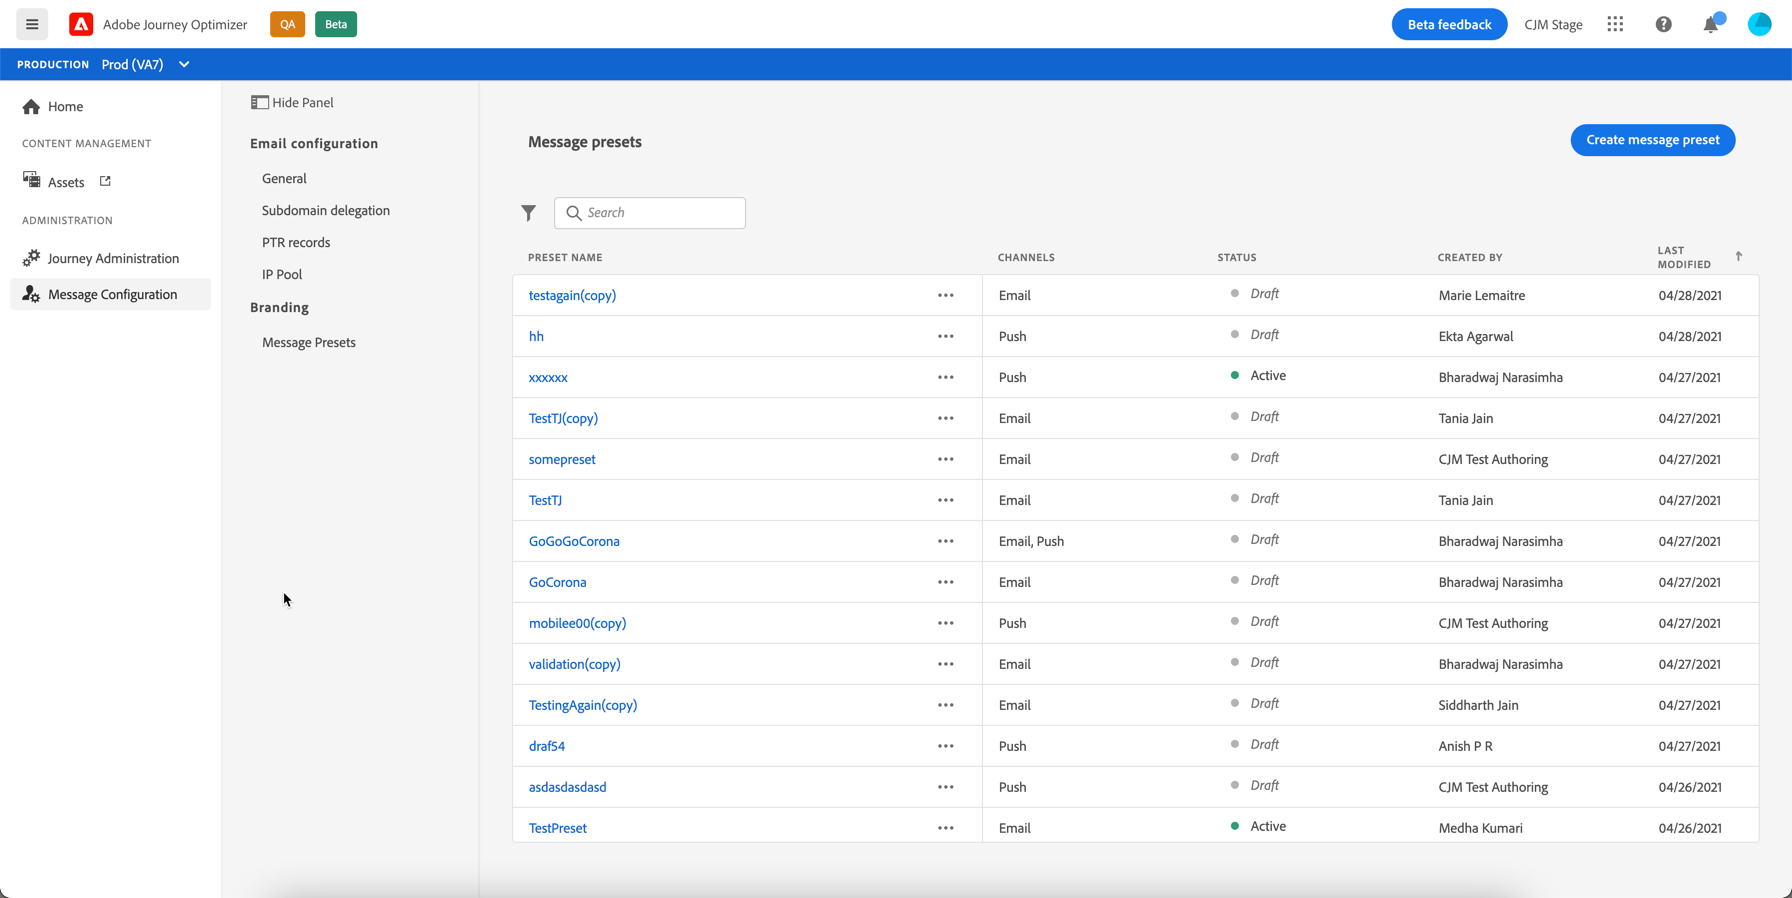
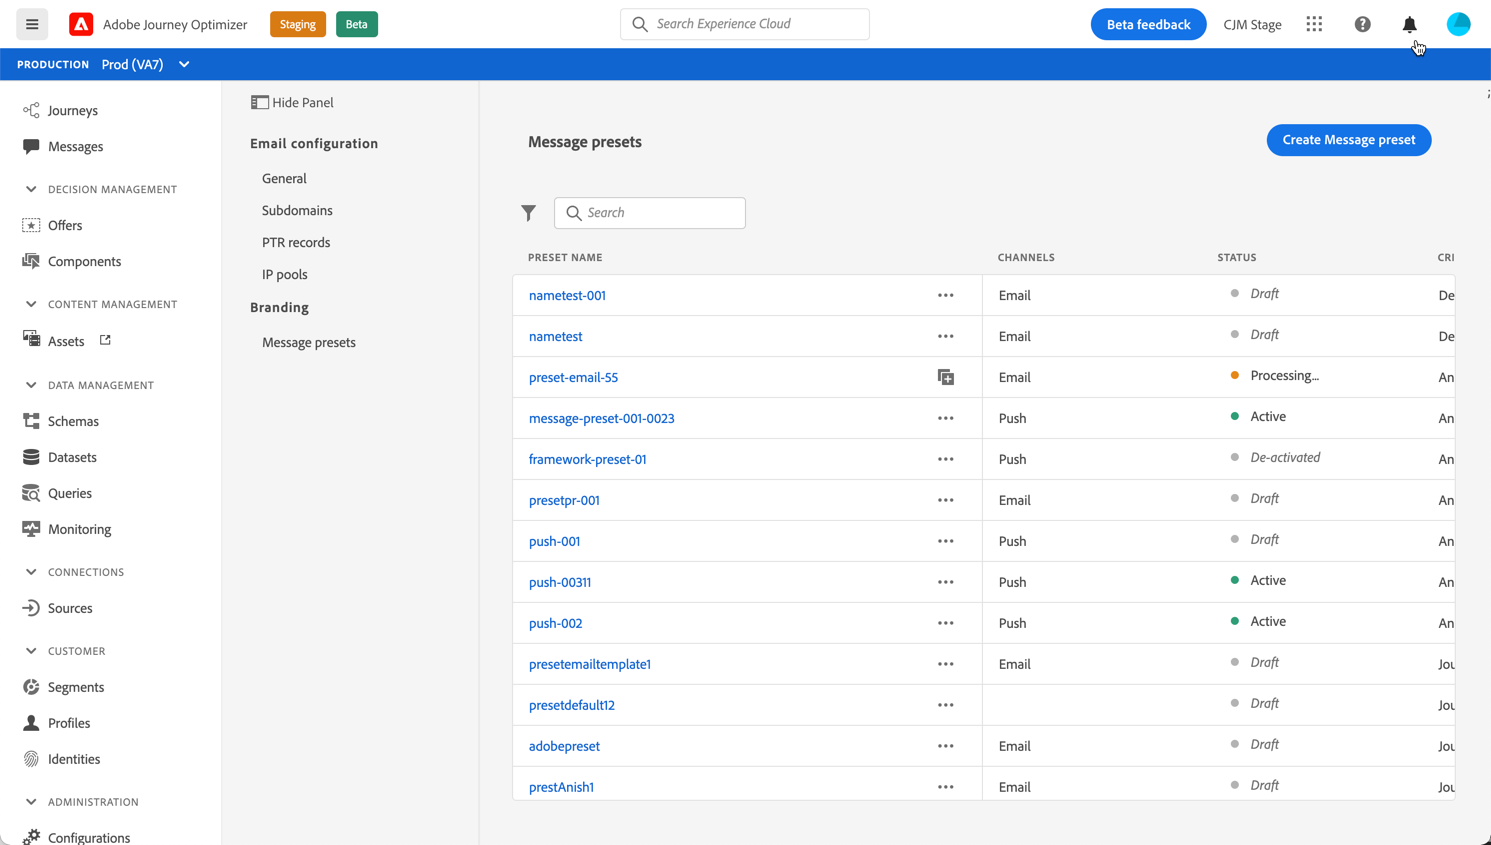
updates with stage instance

diff --git a/help/using/configuration/message-presets.md b/help/using/configuration/message-presets.md
@@ -25,7 +25,7 @@ Once message presets have been configured, you be able to select them when creat
 
 To create a message preset, follow these steps:
 
-1. Access the **[!UICONTROL Message Configuration]** / **[!UICONTROL Message presets]** menu, then click **[!UICONTROL Create message preset]**.
+1. Access the **[!UICONTROL Channels]** / **[!UICONTROL Message presets]** menu, then click **[!UICONTROL Create Message preset]**.
 
     ![](../assets/preset-create.png)
 
@@ -56,28 +56,23 @@ To create a message preset, follow these steps:
 
     During this step, several checks will be performed to verify that it has been configured properly. The processing time is around 48h-72h, and can take up to 7-10 days.
 
-    You can track the verification process by opening the message preset from the list.
+    These checks include deliverability tests that are performed by Adobe deliverability team:
 
-        -SCREENSHOT SHOWING THE TWO CHECKS-
+    * SPF validation,
+    * DKIM validation,
+    * MX record validation,
+    * Check IPs blacklisting,
+    * Helo host check,
+    * IP pool verification,
+    * A/PTR record, t/m/res subdomain verification.
 
-    !!no processing preset on stage + unable to submit a preset 
+1. Once the checks are successfull, you are informed via a **[!DNL Journey Optimizer]** notification, and the message preset gets the **[!UICONTROL Active]** status. It is now ready to be used to deliver messages.
 
-    * **xxxx**: 
-    * **Audit step**: deliverability tests are performed by Adobe deliverability team. This step can take up to 10 days if some steps fail during the audit. The checks include:
+    ![](../assets/preset-active.png)
 
-        * SPF validation,
-        * DKIM validation,
-        * MX record validation,
-        * Check IPs blacklisting,
-        * Helo host check,
-        * IP pool verification,
-        * A/PTR record, t/m/res subdomain verification.
+## Monitor message presets
 
-1. Once the checks are successfull, you will be notified (!!where?). and the message preset will get the **[!UICONTROL Active]** status. It now ready to be used to deliver messages.
-
-## Manage and edit message presets
-
-All your message presets display in the **[!UICONTROL Message Configuration]** / **[!UICONTROL Message presets]** menu. Filters are available to help you browse through the list (channel type, user, status).
+All your message presets display in the **[!UICONTROL Channels]** / **[!UICONTROL Message presets]** menu. Filters are available to help you browse through the list (channel type, user, status).
 
 ![](../assets/preset-filters.png)
 
@@ -89,9 +84,9 @@ Message presets can have the following statuses:
 * **[!UICONTROL Failed]**: One or several checks have failed during the message preset verification.
 * **[!UICONTROL De-activated]**: The message preset is de-activated. It cannot be used to create messages.
 
-To edit a message preset, you first need to de-activate it to make it unavailable to create new messages (published messages using this preset will not be affected and will continue working).
+## Edit message presets
 
-You then need to duplicate the message preset to create a new version to use to create new messages:
+To edit a message preset, you first need to de-activate it to make it unavailable to create new messages (published messages using this preset will not be affected and will continue working). You then need to duplicate the message preset to create a new version to use to create new messages:
 
 1. Access the message presets list, then deactivate the message preset that you want to edit.
 
@@ -104,7 +99,5 @@ You then need to duplicate the message preset to create a new version to use to 
 1. Open the duplicated message preset, modify it according to your needs, then submit your changes. The message preset will go through the same validation cycle as during the [creation step](#create-message-preset).
 
 1. Once validated, it gets the **[!UICONTROL Active]** status and is ready to be used to create new messages.
-
-    ![](../assets/preset-active.png)
 
 <!--que fait-on ensuite avec l'ancienne version deactivated: reste là pour être utilisée par les anciens messages?). quand un deactivate preset est-il enlevé de la liste?-->

diff --git a/help/using/configuration/delegate-subdomain.md b/help/using/configuration/delegate-subdomain.md
@@ -25,11 +25,13 @@ Journey Optimizer allows you to fully delegate your subdomains to Adobe. By doin
 
 To delegate a new subdomain, follow the steps below:
 
-1. Access the **[!UICONTROL Message Configuration]** / **[!UICONTROL Subdomain delegation]** menu, then click **[!UICONTROL Delegate subdomain]**.
+1. Access the **[!UICONTROL Channels]** / **[!UICONTROL Subdomains]** menu, then click **[!UICONTROL Delegate subdomain]**.
 
     ![](../assets/subdomain-delegate.png)
 
 1. Specify the name of the subdomain to delegate.
+
+    ![](../assets/subdomain-name.png)
 
 1. The list of records to be placed in your DNS servers displays. Copy these records, either one by one, or by downloading a CSV file, then navigate to your domain hosting solution to generate the matching DNS records.
 
@@ -43,8 +45,6 @@ To delegate a new subdomain, follow the steps below:
 
 1. Once the subdomain delegation has been submitted, the subdomain displays in the list with the **[!UICONTROL Processing]** status. For more on subdomains' statuses, refer to [this section](access-subdomains.md).
 
-    ![](../assets/subdomain-processing.png)
-
     The configuration checks below will be performed until the subdomain is verified and can be used to configure message presets in order to send messages:
 
     1. NS records,
@@ -52,15 +52,15 @@ To delegate a new subdomain, follow the steps below:
     1. URLs configuration,
     1. Deliverability audit.
 
-    You can follow the validation progress for a subdomain at any time by opening it from the list.
+    ![](../assets/subdomain-processing.png)
 
-    ![](../assets/subdomain-processing-steps.png)
+1. Once the checks are successfull, you are informed via a **[!DNL Journey Optimizer]** notification, and the subdomain gets the **[!UICONTROL Success]** status. It is now ready to be used to deliver messages.
 
-1. Once the checks are successfull, you will be notified xxxxx (!!where are users notified: need to manually check the page or emailed/notified in pulse?).
+    For more on subdomains' statuses, refer to [this section](access-subdomains.md).
 
-    The subdomain gets the **[!UICONTROL Success]** (!!or Verified?) status and is now ready to be used to deliver messages. For more on subdomains' statuses, refer to [this section](access-subdomains.md).
+    ![](../assets/subdomain-notification.png)
 
-    You can access detailed information by opening the subdomain from the list:
+    You can access detailed information about the subdomain by opening it from the list. You can:
     
     * Retrieve the subdomain name (read-only) configured during the delegation process, as well as the generated URLs (resources, mirror page, tracking URLs),
     * Add a Google site verification TXT record to your subdomain to ensure that it is verified (see [Add a Google TXT record to a subdomain](google-txt.md)). 

diff --git a/help/using/configuration/ip-pools.md b/help/using/configuration/ip-pools.md
@@ -17,7 +17,7 @@ snippet: y
 
 ## About IP pools
 
-With Journey Optimizer, you can create IP pools to group together IP addresses of your subdomains.
+With Journey Optimizer, you can create IP pools to group together the IP addresses of your subdomains.
 
 Creating IP pools is strongly recommended for email deliverability. By doing so, you can prevent the reputation of a subdomain from impacting your other subdomains.
 
@@ -27,7 +27,7 @@ For example, one best practice is to have one IP pool for your marketing message
 
 To create an IP pool, follow these steps:
 
-1. Access the **[Message Configuration]** / **[!UICONTROL IP Pool]** menu, then click **[!UICONTROL Create IP Pool]**.
+1. Access the **[!UICONTROL Channels]** / **[!UICONTROL IP pools]** menu, then click **[!UICONTROL Create IP Pool]**.
 
     ![](../assets/ip-pool-create.png)
 
@@ -35,22 +35,18 @@ To create an IP pool, follow these steps:
 
 1. Select the IP addresses to include in the pool from the drop-down list, then click **[!UICONTROL Submit]**.
 
+    ![](../assets/ip-pool-config.png) 
+
     >[!NOTE]
     >
     >All the IP addresses provisioned with your instance are available in the list.
-
-    ![](../assets/ip-pool-config.png) 
-    
-    !! Submit button greyed on stage instance
     
 The IP pool is now created and displays in the list. You can select it to access its properties and display the associated message presets (see [Create a message preset](message-presets.md)).
 
-    -SCREENSHOT-
-    
-    !!no created ip pool on stage
+![](../assets/ip-pool-created.png)
 
-To edit an IP pool, open it, then edit its properties as desired. 
+To edit an IP pool, open it, then edit its properties as desired.
 
 >[!NOTE]
 >
->If a message preset has been associated, you first need to remove it to edit the IP pool. Once the IP pool has been modified, you can associate the message preset again.
+>If a message preset has been associated to the IP pool, you first need to remove it before editing the IP pool. Once the your modifications have been done, you can associate the message preset again.

diff --git a/help/using/configuration/access-subdomains.md b/help/using/configuration/access-subdomains.md
@@ -15,18 +15,18 @@ snippet: y
 
 # Access delegated subdomains
 
-All your delegated subdomains display in the **[!UICONTROL Message Configuration]** / **[!UICONTROL Subdomain delegation]** menu.
+All your delegated subdomains display in the **[!UICONTROL Channels]** / **[!UICONTROL Subdomains]** menu.
 
 Several filters are available to help you refine the list (delegation date, user or status).
 
 ![](../assets/subdomain-list.png)
 
-The Status column provides information on the subdomain delegation process:
+The **[!UICONTROL Status]** column provides information on the subdomain delegation process:
 
-* **[!UICONTROL Draft]**: the subdomain delegation has been saved as a draft. Click on the line to resume the subdomain delegation.
+* **[!UICONTROL Draft]**: The subdomain delegation has been saved as a draft. Click the subdomain name to resume the delegation process,
 
-* **[!UICONTROL Processing]**: the subdomain is going through several configuration checks before it can be used.
+* **[!UICONTROL Processing]**: The subdomain is going through several configuration checks before it can be used,
 
-* **[!UICONTROL Success]** (!!or Verified?): the subdomain has gone through the checks successfully and can be used to deliver messages.
+* **[!UICONTROL Success]**: The subdomain has gone through the checks successfully and can be used to deliver messages,
 
-* **[!UICONTROL Failed]**: one or several checks have failed after the subdomain delegation was submitted.
+* **[!UICONTROL Failed]**: One or several checks have failed after the subdomain delegation was submitted.

diff --git a/help/using/configuration/primary-email-addresses.md b/help/using/configuration/primary-email-addresses.md
@@ -19,8 +19,8 @@ When you target a profile, several email addresses may be available in the datab
 
 With Journey Optimizer, you can determine which email address to use from the profile service and prioritize when several addresses are available. To do this, follow these steps:
 
-1. Access the Settings / General settings menu.
-1. The Execution addresses field shows which field is currently used by default to determine the profiles' email addresses. Click the Edit button to change it.
+1. Access the  **[!UICONTROL Channels]** / **[!UICONTROL General]** menu.
+1. The field that is currently used by default to determine the profiles' email addresses displays in this screen. Click **[!UICONTROL Edit]** to change it.
 
 ![](../assets/primary-address.png)
 
@@ -28,10 +28,8 @@ With Journey Optimizer, you can determine which email address to use from the pr
 
 ![](../assets/primary-address-edit.png)
 
-1. The list of all email address-type XDM fields displays. Select the field to use, then click Add.
+1. The list of available XDM fields displays. Select the field to use, then click **[!UICONTROL Save]**.
 
-    -SCREENSHOT-
+    ![](../assets/primary-address-field.png)
 
-!!no xdm fields available on stage
-
-1. You can also select an additional field to use as secondary email address. This allows you to determine which field to use if the primary field is empty for a profile.
+<!--1. You can also select an additional field to use as secondary email address. This allows you to determine which field to use if the primary field is empty for a profile.-->

diff --git a/help/using/configuration/ptr-records.md b/help/using/configuration/ptr-records.md
@@ -23,15 +23,14 @@ With PTR records, receiving mail servers can check the authenticity of sending m
 
 ## Access your subdomains' PTR records
 
-Once a subdomain is delegated in Customer Jourrney Management, a PTR record is automatically created and associated with this subdomain. You can access it from the **[!UICONTROL Message Configuration]** / **[!UICONTROL PTR records]** menu.
+Once a subdomain is delegated in Customer Jourrney Management, a PTR record is automatically created and associated with this subdomain. You can access it from the **[!UICONTROL Channels]** / **[!UICONTROL PTR records]** menu.
 
-    -SCREENSHOT-
+![](../assets/ptr-records.png)
 
 The list shows the PTR records generated for each delegated subdomain, using the syntax below:
 
-PTR records follow a specific naming syntax:
 * "r" for record,
-* "xx" for 2 last figures of the IP address,
+* "xx" for the two last figures of the IP address,
 * subdomain name.
 
 You can open a PTR record from the list to display the associated subdomain name and IP address.

diff --git a/help/using/configuration/google-txt.md b/help/using/configuration/google-txt.md
@@ -21,11 +21,11 @@ In order to ensure good deliverability and successful delivery of emails to Gmai
 
 >[!NOTE]
 >
-> This operation can only be performed once a subdomain has the **[!UICONTROL Verified]** status. For more on subdomains' statuses, refer to [this section](access-subdomains.md).
+> This operation can only be performed once a subdomain has the **[!UICONTROL Success]** status. For more on subdomains' statuses, refer to [this section](access-subdomains.md).
 
 To add a Google TXT record to your subdomain, follow these steps:
 
-1. Open the subdomain from the **[!UICONTROL Message Configuration]** / **[!UICONTROL Subdomain delegation]** menu.
+1. Open the subdomain from the **[!UICONTROL Channels]** / **[!UICONTROL Subdomains]** menu.
 
 1. In the Google txt record section, enter the verification code generated in [G Suite Admin tools](https://support.google.com/a/answer/183895), then click **[!UICONTROL Save]**.
 

diff --git a/help/using/configuration/get-started-quarantines.md b/help/using/configuration/get-started-quarantines.md
@@ -17,12 +17,12 @@ snippet: y
 
 With Journey Optimizer, you can monitor all the email addresses that are automatically excluded from the sending in a journey.
 
-The detailed list of excluded email addresses is available from the Settings / General settings menu, by clicking the View suppression list link.
+To access the detailed list of excluded email addresses, open the **[!UICONTROL Channels]** / **[!UICONTROL General]** menu, then click the **[!UICONTROL View suppression lists]** link.
 
 ![](../assets/message-settings.png)
 
 Filters are available to help you browse through the list (suppression date,  category and reason). You can also download the list as a CSV file for analysis and reporting purposes. 
 
-!! on staging, only creation date filter
-
 ![](../assets/suppression-list.png)
+
+    !! on staging, only creation date filter is available

diff --git a/help/TOC.md b/help/TOC.md
@@ -186,9 +186,9 @@ hide: yes
     + [Access PTR records](using/configuration/ptr-records.md)
   + [Create IP pools](using/configuration/ip-pools.md)
   + Configure Messages {#configure-messages}
-    + [Determine profiles' primary addresses](using/configuration/primary-email-addresses.md) 
-    + [Create message presets](using/configuration/message-presets.md)
     + [Configure push notifications](using/push-configuration.md)
+    + [Create message presets](using/configuration/message-presets.md)
+    + [Determine profiles' primary addresses](using/configuration/primary-email-addresses.md) 
   + Monitor email addresses' reputation {#manage-quarantines}  
     + [Get started with suppression lists](using/configuration/get-started-quarantines.md)
     + [Suppression categories and reasons](using/configuration/suppression-categories-reasons.md)

diff --git a/help/using/configuration/retries-suppression-list.md b/help/using/configuration/retries-suppression-list.md
@@ -19,6 +19,6 @@ When a message fails due to a soft bounce failure, several retries are performed
 
 In the default configuration, the limit threshold number is set at 3 errors, meaning that the address is sent to the quaratine list at the third encountered error. If a delivery is successful after a retry, the error counter is reinitialized.
 
-You can modify the limit threshold directly from the General settings menu using the Edit button.
+You can modify the limit threshold using the **[!UICONTROL Edit]** button.
 
 ![](../assets/retries-edition.png)

diff --git a/help/using/configuration/suppression-categories-reasons.md b/help/using/configuration/suppression-categories-reasons.md
@@ -30,4 +30,5 @@ Possible failure reasons and their associated category are as follows:
 |Mail box full| The mail box of the recipient is full and could not receive the message. |Soft|
 |DNS failure| xxx |Soft|
 |Invalid recipient| xxx |Hard|
-!!- to enrich 
+
+    !! list to enrich 
